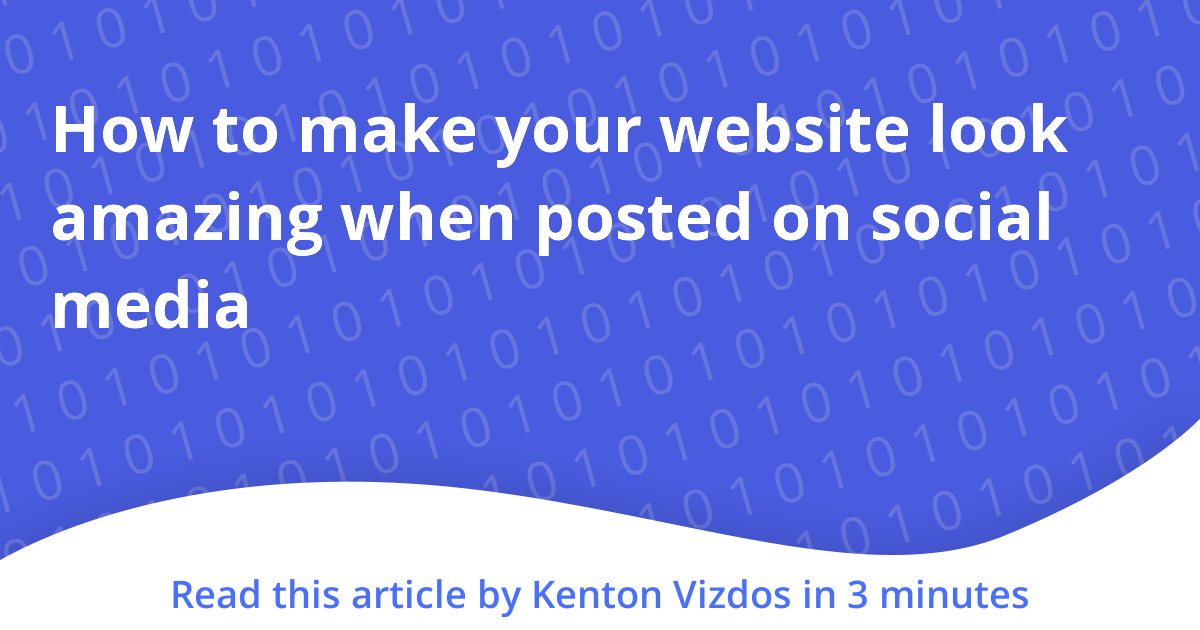
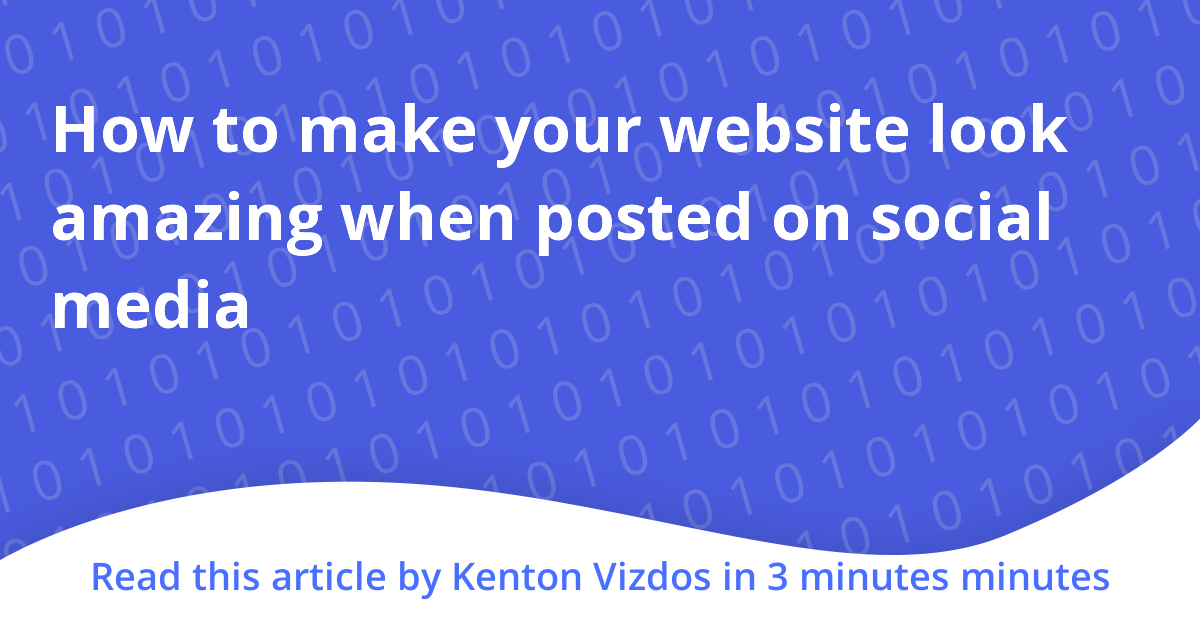
Spacing

Changed region(s): [[0.0617, 0.8746, 0.925, 0.9651]]

diff --git a/social-cards/social-cards.js b/social-cards/social-cards.js
@@ -34,7 +34,7 @@ class SocialCard extends Route {
                     alignX: Jimp.HORIZONTAL_ALIGN_CENTER,
                     alignY: Jimp.VERTICAL_ALIGN_BOTTOM,
                     x: 0,
-                    y: -10,
+                    y: -28,
                     useSafeZone: 1
                 }], {
                     safeZones: [
